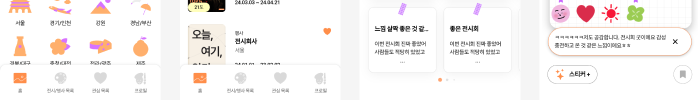
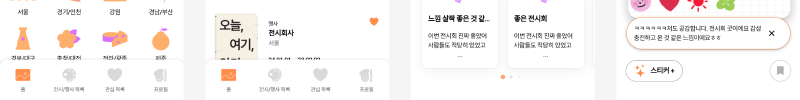
design: 프로젝트 섹션 UI 수정

diff --git a/src/components/projects/ProjectImg.tsx b/src/components/projects/ProjectImg.tsx
@@ -34,15 +34,15 @@ export default function ProjectImg({
         onClick={projectBtnHandler}
         style={{
           transform: 'rotateY(15deg)',
-          width: 700 * (1 - 0.14 * idx) + 'px',
-          height: 322 * (1 - 0.14 * idx) + 'px',
+          width: 800 * (1 - 0.14 * idx) + 'px',
+          height: 368 * (1 - 0.14 * idx) + 'px',
         }}
       >
         <img src={image} alt="" className="rounded-xl" />
       </button>
       <div
         style={{
-          width: 700 * (1 - 0.14 * idx) + 'px',
+          width: 800 * (1 - 0.14 * idx) + 'px',
           height: 100 * (1 - 0.14 * idx) + 'px',
           transform: 'rotateY(15deg) scaleY(-1)',
         }}
@@ -52,7 +52,7 @@ export default function ProjectImg({
         src={shadow}
         alt=""
         style={{
-          width: 700 * (1 - 0.14 * idx) + 'px',
+          width: 800 * (1 - 0.14 * idx) + 'px',
           height: 100 * (1 - 0.14 * idx) + 'px',
           transform: 'rotateY(15deg) scaleY(-1)',
           maskImage:

diff --git a/src/components/projects/ProjectInfo.tsx b/src/components/projects/ProjectInfo.tsx
@@ -12,7 +12,7 @@ export default function ProjectInfo({
   skill,
 }: propTypes) {
   return (
-    <div className="flex flex-col items-start mt-12 -ml-12">
+    <div className="flex flex-col items-start mt-16 -ml-16">
       <span className="text-2xl font-semibold tracking-wide text-beige-100">
         {title}
       </span>

diff --git a/src/components/projects/LeftArrowBtn.tsx b/src/components/projects/LeftArrowBtn.tsx
@@ -15,7 +15,7 @@ export default function LeftArrowBtn({ setProjectList }: propTypes) {
 
   return (
     <button
-      className="mb-10 text-5xl hover:text-red-100 text-beige-100"
+      className="text-5xl mb-28 hover:text-red-100 text-beige-100"
       onClick={btnHandler}
     >
       <IoIosArrowBack />

diff --git a/src/components/projects/Project.tsx b/src/components/projects/Project.tsx
@@ -41,8 +41,8 @@ export default function Project({
     <div
       style={{
         zIndex: zIndex,
-        top: 46 + idx * 20,
-        left: 320 - idx * 90,
+        top: 65 + idx * 20,
+        left: 300 - idx * 90,
       }}
       className={`absolute flex`}
     >
